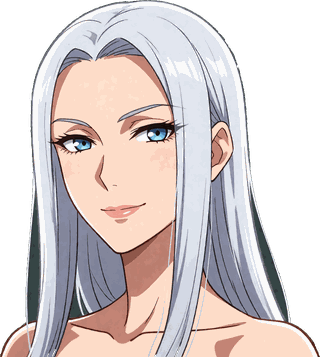
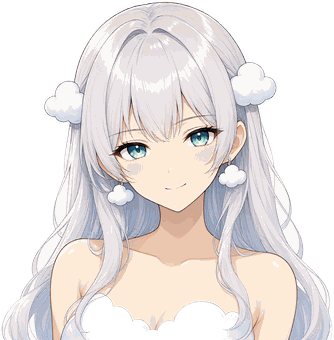
v3.60.1 御姐形态重绘：年轻时尚化，画风与全 12 态统一

diff --git a/sw.js b/sw.js
@@ -8,7 +8,7 @@
         player-kit / world-runtime 全系等 60+ 文件），此前离线模式功能残缺
      3. 版本号体系与主版本 v3.46.0 对齐
 */
-const SW_VER = 'yunjing-v3.60.0';  /* v3.60.0 动态小云：行为引擎(蹦跳/转圈/闲逛/哼歌/真瞌睡)+亲密度+剧情感知+视线跟随+3张半身补全身。v3.59.1 小云十二形态（AI 生图 PNG，删 SVG）。v3.59.0 主界面换肤「晓云天光」+ 小云五形态换装。v3.58.0 世界自活（P6）：原创人物/势力/地点自动繁衍上图 + 自由人生。v3.57.0「让世界活起来」引擎全套（P2-P5）：
+const SW_VER = 'yunjing-v3.60.1';  /* v3.60.1 御姐形态重绘：年轻时尚化（香槟金裙+白开衫+云朵耳坠），画风与全 12 态统一。v3.60.0 动态小云：行为引擎(蹦跳/转圈/闲逛/哼歌/真瞌睡)+亲密度+剧情感知+视线跟随+3张半身补全身。v3.59.1 小云十二形态（AI 生图 PNG，删 SVG）。v3.59.0 主界面换肤「晓云天光」+ 小云五形态换装。v3.58.0 世界自活（P6）：原创人物/势力/地点自动繁衍上图 + 自由人生。v3.57.0「让世界活起来」引擎全套（P2-P5）：
    v3.57.1 修复：EntityStore 单复数归一（list("characters") 曾恒空，关系连线在角色池上静默失效）。
    ① entity-editor.js 统一填表（法宝/势力/地点/关系，schema 驱动）
    ② sim-core.js 推演引擎（规则核心·种子化可复算·what-if 分叉）

diff --git a/changelog/index.html b/changelog/index.html
@@ -282,6 +282,19 @@
 
         <!-- ==================== 版本条目（新→旧） ==================== -->
 
+        <article class="log-entry" data-tags="小云 形象 换装" style="--entry-hue:#e8dcb8;">
+            <div class="log-head">
+                <span class="ver-chip">v3.60.1</span>
+                <span class="log-title">御姐形态重绘 · 明媚大方</span>
+            </div>
+            <div class="log-body">
+                <ul>
+                    <li><b>御姐形态重绘</b>：告别老气的黑色晚礼服造型，换上香槟金缎面吊带裙 + 白色针织开衫 + 云朵耳坠，约 20 岁年轻大姐姐气质，画风与其余 11 态软萌赛璐璐完全统一。</li>
+                    <li><b>形象描述同步</b>：形态菜单中御姐的副标题更新为「香槟金裙 · 明媚大方」。</li>
+                </ul>
+            </div>
+        </article>
+
         <article class="log-entry" data-tags="小云 沉浸 交互" style="--entry-hue:#e8c8d8;">
             <div class="log-head">
                 <span class="ver-chip">v3.60.0</span>

diff --git a/studio.html b/studio.html
@@ -403,7 +403,7 @@
     <script defer src="js/status-schema.js?v=3.55.29"></script>
     <!-- v3.53.0 文件桥：内置助手自检并直接改项目文件 -->
     <script type="text/yj-lazy" data-src="js/file-bridge.js?v=3.55.29" data-yj-group="demand" data-yj-globals="FileBridge"></script>
-    <script type="text/yj-lazy" data-src="js/mo-chibi.js?v=3.60.0" data-yj-group="demand" data-yj-globals="MoChibi"></script>
+    <script type="text/yj-lazy" data-src="js/mo-chibi.js?v=3.60.1" data-yj-group="demand" data-yj-globals="MoChibi"></script>
     <script type="text/yj-lazy" data-src="js/config-modal.js?v=3.55.30" data-yj-group="demand" data-yj-globals="ConfigModal"></script>
     <!-- v3.53.0 保险箱：存档 / 配置 / 整机 三档导入导出 + 回滚 -->
     <script type="text/yj-lazy" data-src="js/vault.js?v=3.55.29" data-yj-group="demand" data-yj-globals="YunjingVault"></script>

diff --git a/js/mo-chibi.js b/js/mo-chibi.js
@@ -34,7 +34,7 @@ const MoChibi = {
   },
   STYLE_LABEL: { luo: "萝莉", yu: "御姐", jiaohua: "校花", qingchun: "清纯", linjia: "邻家", kusa: "酷飒", wenrou: "温柔", aojiao: "傲娇", keai: "可爱", gaoguai: "搞怪", youtai: "幼态", zhixing: "知性" },
   STYLE_DESC: {
-    luo: "云朵短发 · 可爱俏皮", yu: "银白直发 · 成熟从容",
+    luo: "云朵短发 · 可爱俏皮", yu: "香槟金裙 · 明媚大方",
     jiaohua: "学院西装 · 优雅自信", qingchun: "水手裙 · 羞涩纯真",
     linjia: "怀抱白猫 · 温柔治愈", kusa: "黑色皮衣 · 桀骜酷飒",
     wenrou: "淡紫长裙 · 恬静温婉", aojiao: "红蝶结 · 傲娇别扭",
